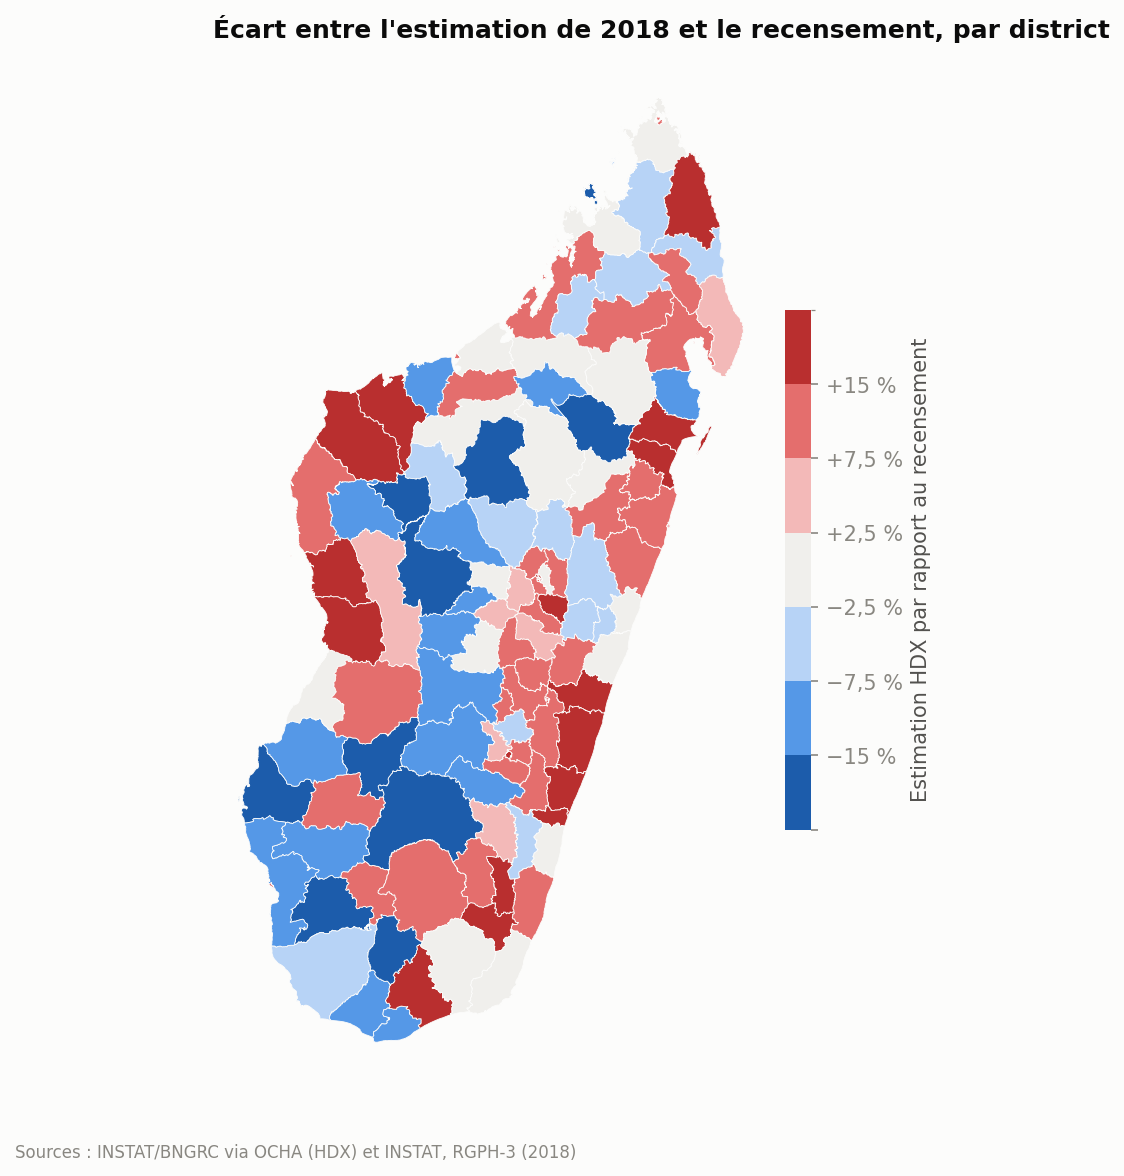
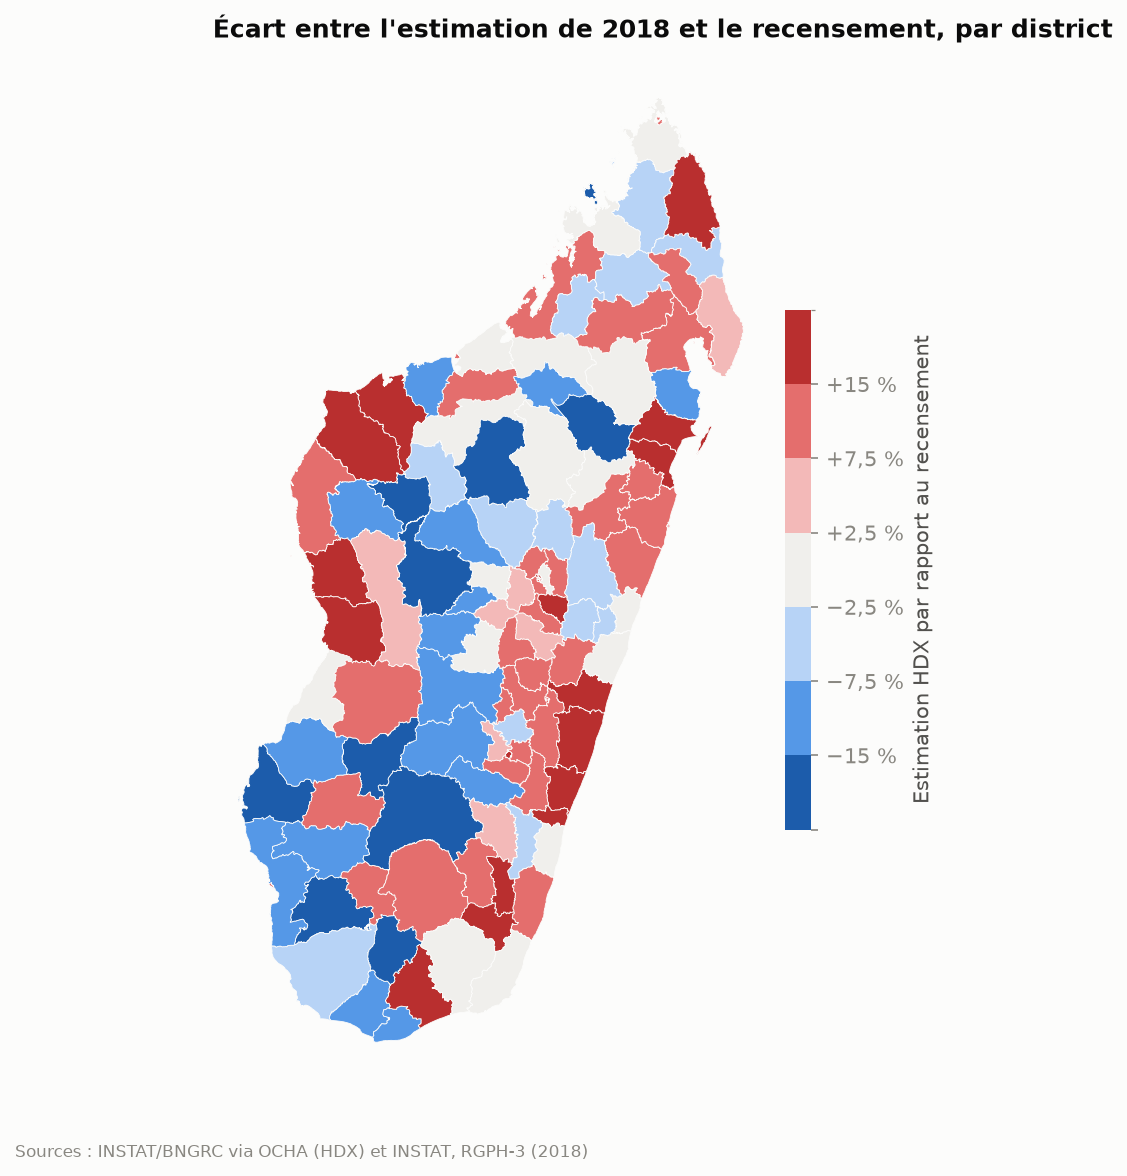
Évite les faux changements des graphiques entre machines
- matplotlib fixé à la version 3.11.2, celle utilisée par GitHub Actions
- Un graphique n'est réécrit que si ses pixels changent : la compression
  PNG diffère entre Windows et Linux, ce qui créait des commits inutiles
- Graphiques remis à la version produite par GitHub Actions

diff --git a/src/visualisation.py b/src/visualisation.py
@@ -1,4 +1,5 @@
 """Étape 3 : graphiques et rapport de synthèse."""
+import io
 from datetime import date
 
 import matplotlib
@@ -8,6 +9,7 @@ import matplotlib.pyplot as plt
 from matplotlib.colors import BoundaryNorm, ListedColormap
 from matplotlib.patches import Polygon
 import pandas as pd
+from PIL import Image
 
 from config import DOSSIER_SORTIES
 from geometrie import anneaux
@@ -33,11 +35,27 @@ plt.rcParams.update({
 })
 
 
+def _memes_pixels(chemin, tampon):
+    with Image.open(chemin) as ancien, Image.open(tampon) as nouveau:
+        return ancien.size == nouveau.size and ancien.convert("RGBA").tobytes() == nouveau.convert("RGBA").tobytes()
+
+
 def _sauver(fig, nom):
+    """Enregistre le graphique, sauf si l'image existante a exactement les mêmes pixels.
+
+    La compression PNG diffère légèrement entre Windows et Linux : sans cette vérification,
+    chaque exécution sur une autre machine produirait de faux changements dans git.
+    """
     DOSSIER_SORTIES.mkdir(parents=True, exist_ok=True)
     chemin = DOSSIER_SORTIES / nom
-    fig.savefig(chemin, dpi=150, bbox_inches="tight")
+    tampon = io.BytesIO()
+    fig.savefig(tampon, format="png", dpi=150, bbox_inches="tight")
     plt.close(fig)
+    tampon.seek(0)
+    if chemin.exists() and _memes_pixels(chemin, tampon):
+        print(f"  = sorties/{nom} (inchangé)")
+        return chemin
+    chemin.write_bytes(tampon.getvalue())
     print(f"  -> sorties/{nom}")
     return chemin
 
